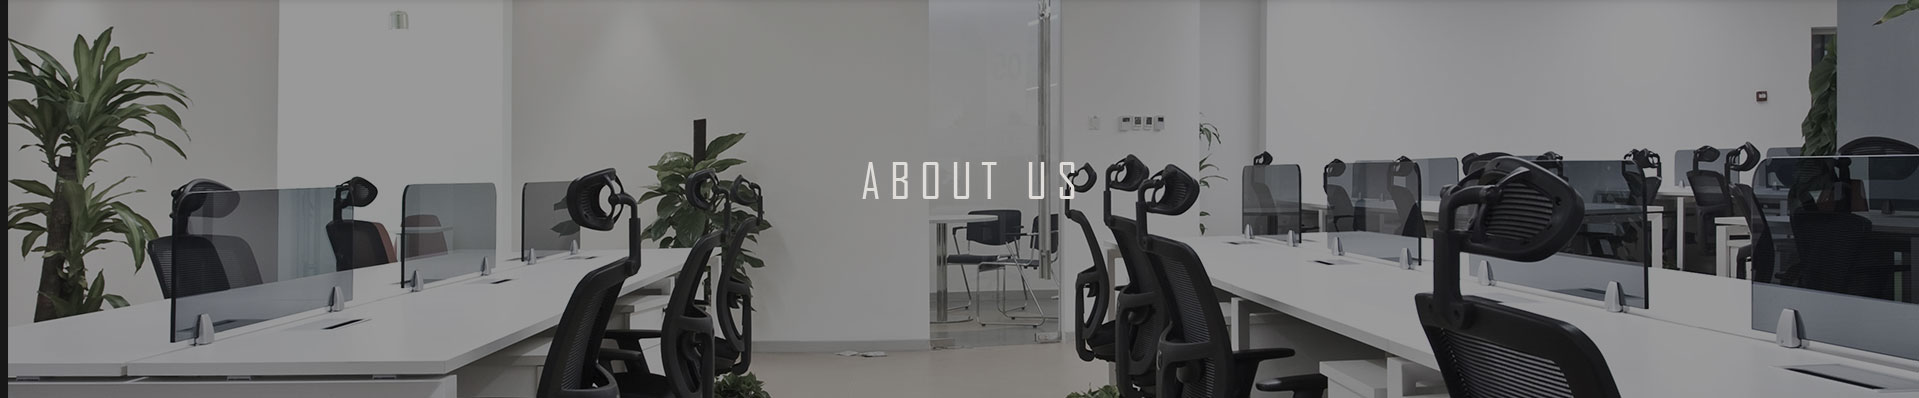
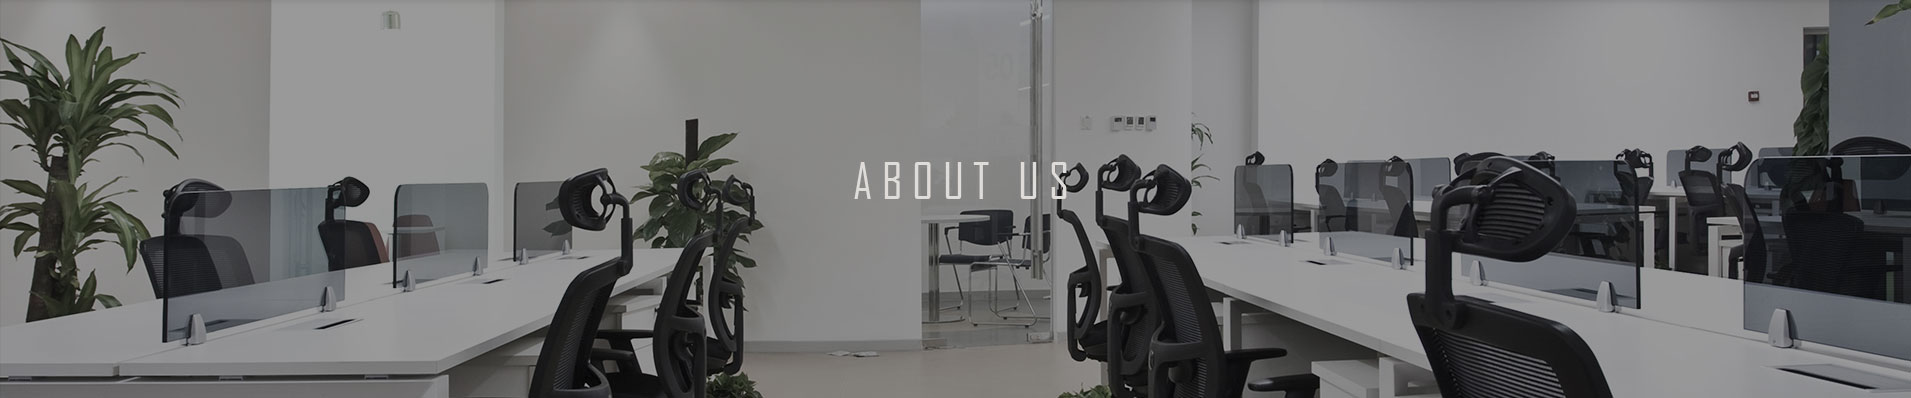
4月19上午 周4 静态完成

diff --git a/src/components/footer/footer.vue b/src/components/footer/footer.vue
@@ -5,8 +5,8 @@
         <div>
           <p>关于中企智融</p>
           <ul>
-            <li><router-link to="/">公司简介</router-link></li>
-            <li><router-link to="/">集团优势</router-link></li>
+            <li><router-link to="/about/content1">公司简介</router-link></li>
+            <li><router-link to="/about/content2">集团优势</router-link></li>
           </ul>
         </div>
         <div>
@@ -22,15 +22,15 @@
         <div>
           <p>新闻中心</p>
           <ul>
-            <li><router-link to="/">公司动态</router-link></li>
-            <li><router-link to="/">行业资讯</router-link></li>
+            <li><router-link to="/news/news1">公司动态</router-link></li>
+            <li><router-link to="/news/news2">行业资讯</router-link></li>
           </ul>
         </div>
         <div>
           <p>加入中企智融</p>
           <ul>
-            <li><router-link to="/">人才理念</router-link></li>
-            <li><router-link to="/">职位招聘</router-link></li>
+            <li><router-link to="/join">人才理念</router-link></li>
+            <li><router-link to="/join">职位招聘</router-link></li>
           </ul>
         </div>
         <div>
@@ -103,8 +103,8 @@
       >:nth-child(4)
         width 140px
       >:nth-child(5)
-        width 336px
-        border-right solid 0 transparent
+        width 30%
+        border-right none
         >div
           float left
         ul

diff --git a/src/pages/home/homeBigImg.vue b/src/pages/home/homeBigImg.vue
@@ -1,6 +1,6 @@
 <template>
   <div>
-    <div class="big_img">
+    <div class="big_img_home">
       <img src="./img/bigimg.jpg" alt="主图" />
     </div>
     <div class="line_wrap">
@@ -20,7 +20,7 @@
 </script>
 
 <style lang="stylus" rel="stylesheet/stylus">
-  .big_img
+  .big_img_home
     width 100%
     height 600px
     display flex
@@ -28,14 +28,15 @@
     margin 0 auto
     overflow hidden
     img
-      display block
       width 1920px
   .line_wrap
     width 100%
     height 4px
     margin 0 auto
     position absolute
+    overflow hidden
     z-index 10
+    margin-top -2px
     .line_w
       width 1920px
       height 4px
@@ -44,6 +45,6 @@
         width 60%
         height 4px
         background #f9662d
-        margin-top -2px
+
 
 </style>

diff --git a/src/pages/news/news.vue b/src/pages/news/news.vue
@@ -1,6 +1,9 @@
 <template>
 	<div>
-    <img class="news_big" src="./news.jpg" alt="">
+    <div class="big_img">
+      <img class="news_big" src="./news.jpg" alt="">
+    </div>
+
     <div class="nav">
       <ul>
         <li :class="{on:isCurrent('/news/news1')}">
@@ -26,10 +29,15 @@
 </script>
 
 <style lang="stylus" rel="stylesheet/stylus">
-  .news_big
+  .big_img
     width 100%
-    display block
+    height 400px
     margin 0 auto
+    display flex
+    justify-content center
+    overflow hidden
+    .news_big
+      width 1920px
   .nav
     width 100%
     height 72px

diff --git a/src/components/header/homeHeader.vue b/src/components/header/homeHeader.vue
@@ -83,13 +83,14 @@
           line-height 87px
 
         .tow_nav
+          display none
           width 190px
           background #fff
           border-top 4px solid #f96624
           position absolute
           top 87px
           left 0
-          display none
+          box-shadow 3px 3px 4px -1px #666
           >li
             margin 0 20px
             height 48px

diff --git a/src/pages/about/aboutContent/aboutContent.vue b/src/pages/about/aboutContent/aboutContent.vue
@@ -1,7 +1,6 @@
 <template>
   <div class="wrap_one">
 
-
     <PagingTitle title="公司简介" style="margin:50px auto 10px"></PagingTitle>
     <p>中企智融金融服务外包（北京）有限公司成立于2016年，股东为汉唐控股集团和黑龙江国投政信资产交易中心有限公司，注册资本金1亿元。</p>
     <br/>

diff --git a/src/router/index.js b/src/router/index.js
@@ -17,6 +17,7 @@ import news2 from '../pages/news/news2/news2.vue'
 Vue.use(Router)
 
 export default new Router({
+  mode:'history',
   routes: [
     {
       path: '/',

diff --git a/src/pages/about/about.vue b/src/pages/about/about.vue
@@ -35,8 +35,7 @@
     margin 0 auto
     overflow hidden
     img
-      display block
-      width 100%
+      width 1920px
   .nav
     width 100%
     margin 0 auto
